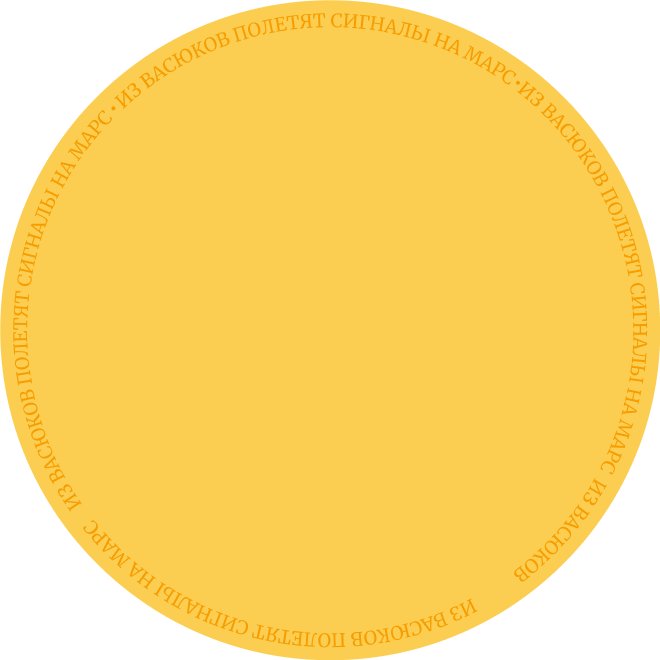
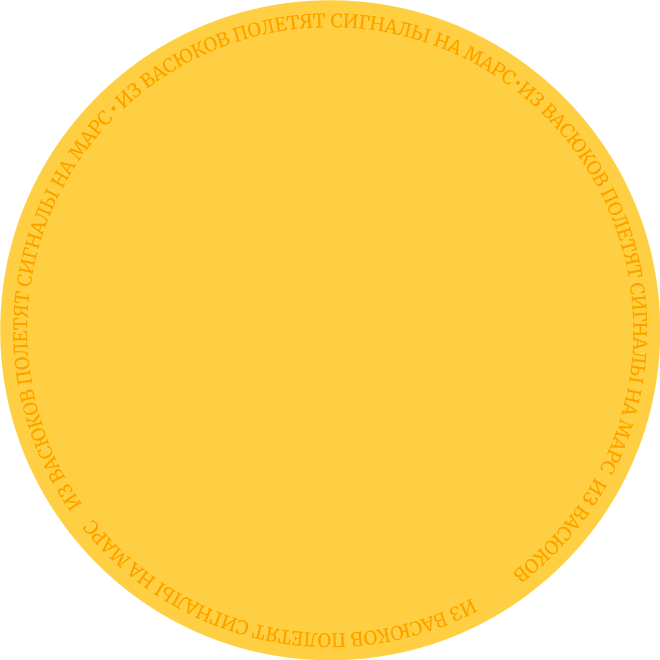
assets compressed

diff --git a/styles.css b/styles.css
@@ -235,7 +235,7 @@ body {
   bottom: 0;
 }
 .header__overlay {
-  background-image: url("./assets/overlay-s.png");
+  background-image: url("./assets/overlay.png");
   position: absolute;
   z-index: -10;
   mix-blend-mode: color-burn;
